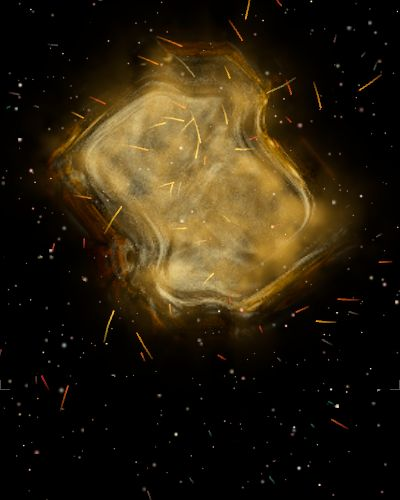
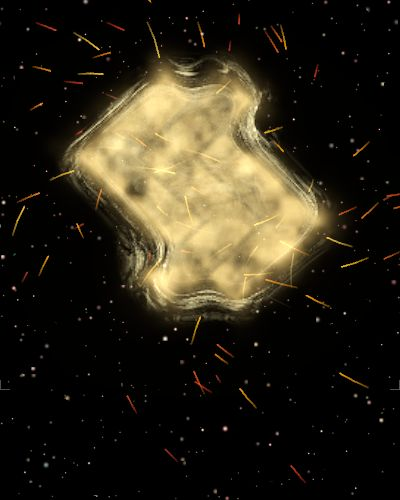
Big Bang: start a touch later; an accretion disk and lensing round the mark
The loop now starts 55% into the collapse (was 45%).

After ignition, the leftover gas settles into a thin, hot disk that hugs the
mark's outline. It orbits faster the closer in it is, so its noise shears into
streaks. Light passing the mark bends toward it, so stars and gas smear into
arcs, with a dark gap at the edge. Both build up through ignition, are blown off
by the replay blast, and are back to zero by the loop point, so the seam stays
clean. New sliders: Accretion disk, Disk spin and Lensing (spacetime warp).

Posters are regenerated for the later start.

diff --git a/labs/bigbang.html b/labs/bigbang.html
@@ -66,6 +66,9 @@ const lab = createLab({
     flash:    { type: 'range', label: 'Flash intensity', min: 0, max: 2, step: 0.05, value: 0.45 },
     pulse:    { type: 'range', label: 'Afterglow pulse', min: 0, max: 0.2, step: 0.005, value: 0.04 },
     pulseRate:{ type: 'range', label: 'Pulse rate', min: 0.2, max: 2, step: 0.05, value: 0.2, unit: '/s', when: P => P.pulse > 0 },
+    disk:     { type: 'range', label: 'Accretion disk', min: 0, max: 2, step: 0.05, value: 1 },
+    diskSpin: { type: 'range', label: 'Disk spin', min: 0, max: 4, step: 0.05, value: 1, unit: '×', when: P => P.disk > 0 },
+    lens:     { type: 'range', label: 'Lensing (spacetime warp)', min: 0, max: 2, step: 0.05, value: 1 },
     hReplay:  { type: 'heading', label: 'Replay' },
     loop:     { type: 'toggle', label: 'Auto replay', value: true },
     hold:     { type: 'range', label: 'Hold before replay', min: 2, max: 30, step: 1, value: 8, unit: ' s', when: P => P.loop },
@@ -88,7 +91,7 @@ const T0 = 1.2;                         // seconds of quiet cloud before gravity
 const LMAX = Math.log(40);              // the cloud ends 40× smaller than it starts
 const SETTLE = 3;                       // seconds after ignition before the hold timer counts
 const TB = 2.4;                         // seconds the replay blast takes to scatter back into cloud
-const LOOP_U = 0.45;                    // the loop starts here in the collapse, just before the mark coalesces
+const LOOP_U = 0.55;                    // the loop starts here in the collapse, just before the mark coalesces
 
 const { canvas } = lab.canvas({ context: 'none' });
 let renderer;
@@ -288,12 +291,12 @@ accScene.add(accQuad);
 const nebMat = new THREE.ShaderMaterial({
   uniforms: { ...shared, uDensity: { value: 1 }, uWarp: { value: 1 }, uOct: { value: 5 }, uSteps: { value: 40 }, uSeed: { value: 0 }, uBoost: { value: 1 },
     uL: { value: 0 }, uLs: { value: 0 }, uFlat: { value: 1 }, uEat: { value: 0 }, uSwirl: { value: 1 }, uSpin: { value: 0 }, uHeat: { value: 0 }, uHeatK: { value: 1 }, uCloudW: { value: 1 }, uClear: { value: 0 },
-    uAccW: { value: 0 }, uAccWid: { value: 1 }, uClump: { value: 1 }, uBox: { value: new THREE.Vector3(14, 14, 8) } },
+    uAccW: { value: 0 }, uAccWid: { value: 1 }, uClump: { value: 1 }, uDisk: { value: 0 }, uDiskT: { value: 0 }, uBox: { value: new THREE.Vector3(14, 14, 8) } },
   vertexShader: QUAD_VERT,
   fragmentShader: /* glsl */`
 ${GLSL_COMMON}
 uniform float uTime, uDensity, uWarp, uBoost, uSeed;
-uniform float uL, uLs, uFlat, uEat, uSwirl, uSpin, uHeat, uHeatK, uCloudW, uClear, uAccW, uAccWid, uClump;
+uniform float uL, uLs, uFlat, uEat, uSwirl, uSpin, uHeat, uHeatK, uCloudW, uClear, uAccW, uAccWid, uClump, uDisk, uDiskT;
 uniform vec3 uBox;
 uniform int uOct, uSteps;
 const float ZC = ${ZC.toFixed(5)}, HZ = ${HZ.toFixed(5)};
@@ -378,6 +381,21 @@ void main() {
       a *= max(0.0, mix(1.0, clamp(1.0 + cn * 3.5, 0.15, 2.2), uClump));   // past 1 the clumps exaggerate; never below empty
       m += vec4(pal(0.42 - 0.4 * uHeat) * a * 1.5, a * 0.25);
     }
+    // the accretion disk: after ignition the leftover gas settles into a thin, hot band hugging the mark's
+    // outline, orbiting faster the closer in it is (Kepler), so the noise shears into long streaks
+    if (uDisk > 0.001 && de < 2.4) {
+      float thick = 0.1 + 0.2 * de;
+      float vz = exp(-zo * zo / (thick * thick));
+      float prof = smoothstep(0.02, 0.14, de) * exp(-de * 1.9) * (1.0 - smoothstep(1.6, 2.4, de));
+      float a = atan(p.y, p.x) - uDiskT * 1.4 / pow(0.35 + de, 1.5);
+      vec2 ring = vec2(cos(a), sin(a));
+      float n1 = texture(uNoise, vec3(ring * 0.45, de * 0.4 + 0.31)).r;
+      float n2 = texture(uNoise, vec3(ring * 1.1 + 0.5, de * 1.2 + 0.13)).g;
+      float band = smoothstep(0.5, 0.85, n1 * 0.7 + n2 * 0.45);
+      float e = uDisk * prof * vz * (0.08 + 1.5 * band);
+      vec3 dc = pal(mix(0.02, 0.32, smoothstep(0.0, 1.6, de))) * (1.0 + 2.0 * exp(-de * 5.0));
+      m += vec4(dc * e * 1.6, e * 0.3);
+    }
     acc += T * m.rgb * uDensity * uBoost * dt;
     T *= exp(-m.a * uDensity * dt);
     t += dt;
@@ -396,13 +414,14 @@ const nebCam = new THREE.OrthographicCamera(-1, 1, 1, -1, 0, 1);
 // (idea after shadertoy.com/view/wfscRX; no code copied).
 const compMat = new THREE.ShaderMaterial({
   uniforms: { ...shared, uNeb: { value: hist[0].texture }, uRs: { value: 0 }, uShock: { value: 0 }, uHalo: { value: 0 },
-    uStars: { value: 0.35 }, uDpr: { value: 1 }, uBg: { value: new THREE.Color() } },
+    uStars: { value: 0.35 }, uDpr: { value: 1 }, uBg: { value: new THREE.Color() }, uLens: { value: 0 }, uVP: { value: new THREE.Matrix4() } },
   vertexShader: QUAD_VERT,
   depthTest: false, depthWrite: false,
   fragmentShader: /* glsl */`
 ${GLSL_COMMON}
 uniform sampler2D uNeb;
-uniform float uTime, uRs, uShock, uHalo, uStars, uDpr;
+uniform float uTime, uRs, uShock, uHalo, uStars, uDpr, uLens;
+uniform mat4 uVP;
 uniform vec3 uBg;
 float hash13(vec3 p) { p = fract(p * 0.1031); p += dot(p, p.zyx + 31.32); return fract((p.x + p.y) * p.z); }
 // stars live on the sky (by direction) so they work from every orbit angle
@@ -429,14 +448,25 @@ void main() {
   float th = -ro.z / rd.z;
   vec2 h = ro.xy + rd.xy * max(th, 0.0);
   float sd = th > 0.0 ? sdf(h) : 1e4;
-  vec4 neb = texture2D(uNeb, vUv);
+  // gravitational lensing: light passing the mark bends toward it, so each pixel shows what lies a little
+  // closer in, by more the nearer it passes. Stars and the disk smear into arcs around the outline.
+  vec2 uv = vUv; vec3 srd = rd;
+  if (uLens > 0.001 && th > 0.0) {
+    vec4 f = field(h);
+    float b = max(f.g, 0.0);
+    vec2 src = h - normalize(f.ba + 1e-5) * uLens * 0.32 / (0.3 + b) * smoothstep(0.0, 0.08, b);
+    vec4 cp = uVP * vec4(src, 0.0, 1.0);
+    uv = cp.xy / cp.w * 0.5 + 0.5;
+    srd = normalize(vec3(src, 0.0) - ro);
+  }
+  vec4 neb = texture2D(uNeb, uv);
   // light unsharp mask on the upscaled cloud target
   vec2 tx = 1.0 / vec2(textureSize(uNeb, 0));
-  vec4 blur = 0.25 * (texture2D(uNeb, vUv + vec2(tx.x, 0.0)) + texture2D(uNeb, vUv - vec2(tx.x, 0.0)) + texture2D(uNeb, vUv + vec2(0.0, tx.y)) + texture2D(uNeb, vUv - vec2(0.0, tx.y)));
+  vec4 blur = 0.25 * (texture2D(uNeb, uv + vec2(tx.x, 0.0)) + texture2D(uNeb, uv - vec2(tx.x, 0.0)) + texture2D(uNeb, uv + vec2(0.0, tx.y)) + texture2D(uNeb, uv - vec2(0.0, tx.y)));
   neb = max(vec4(0.0), neb + (neb - blur) * 0.35);
   float hd = max(sd, 0.0);
   vec3 halo = pal(0.2) * uHalo * (0.05 / (0.05 + hd)) * exp(-hd * 0.9);
-  vec3 c = stars(rd) * (1.0 - neb.a * 0.92) + neb.rgb + halo;
+  vec3 c = stars(srd) * (1.0 - neb.a * 0.92) + neb.rgb + halo;
   c = c * (1.0 + c / 4.0) / (1.0 + c);
   // grade: deeper blacks, more saturation, like an OLED demo reel
   c = max(vec3(0.0), mix(vec3(dot(c, vec3(0.2126, 0.7152, 0.0722))), c, 1.3));
@@ -635,7 +665,7 @@ lab.on('change', key => { if (key === 'quality') sizeNebula(); dirty = 40; });
 // snapshot of wherever the sequence was back to the cloud as it is at loopS(), just before the mark coalesces,
 // then hands over to 'seq' there. The lab opens at loopS() too, so it loops collapse, hold, blast.
 // Everything is a pure function of S (or B and the snapshot), so seeking and replaying never pop.
-let mode = 'seq', S = 0, B = 0, enterS = -1, churn = 0, beatT = 0, yaw = 0, from = null;
+let mode = 'seq', S = 0, B = 0, enterS = -1, churn = 0, beatT = 0, diskT = 0, yaw = 0, from = null;
 const clamp01 = x => Math.max(0, Math.min(1, x));
 function smooth(e0, e1, x) { const t = clamp01((x - e0) / (e1 - e0)); return t * t * (3 - 2 * t); }
 const mix = (a, b, f) => a + (b - a) * f;
@@ -668,6 +698,8 @@ function seqState(S) {
     boost: 1 + 1.4 * smooth(0.75, 1, u) * (tau > 0 ? Math.exp(-post * 5) : 1),
     flash: tau > -0.12 ? (tau < 0 ? smooth(-0.12, 0, tau) : Math.exp(-tau * 7) * (1 - smooth(0.15, 0.5, tau))) : 0,
     halo: smooth(0, 0.6, post) * (0.35 + 0.65 * Math.exp(-post / 2.5)),
+    disk: smooth(-0.3, 1.6, tau),                      // what's left over settles into a disk round the mark
+    lens: smooth(-0.1, 0.8, tau),
     b: 0
   };
 }
@@ -691,6 +723,7 @@ function blastState(b) {
     front: mix(F.front, Z.front, kc), boost: mix(F.boost, Z.boost, k) + 1.2 * Math.exp(-b * 4) * smooth(0, 0.04, b),
     flash: 0.5 * Math.max(F.mesh, 0.3) * smooth(0, 0.04, b) * Math.exp(-b * 9) * (1 - smooth(0.15, 0.45, b)),
     halo: F.halo * Math.exp(-b * 5),
+    disk: F.disk * (1 - smooth(0, 0.5 * TB, b)), lens: F.lens * (1 - smooth(0, 0.3 * TB, b)),
     az: F.az * (1 - kc), el: F.el,
     b
   };
@@ -739,6 +772,7 @@ function update(dt) {
   if (!calm) {
     churn += dt * P.time * P.flow / 3;
     beatT += dt * P.time * P.pulseRate;
+    diskT += dt * P.time * P.diskSpin;
     if (!press) { const r = Math.exp(-dt * 1.6); dragYaw *= r; dragPitch *= r; }
     if (mode === 'seq') {
       S += dt * P.time;
@@ -788,6 +822,8 @@ function update(dt) {
   nu.uAccWid.value = st.wid;
   nu.uClump.value = P.wobble;
   nu.uBoost.value = st.boost;
+  nu.uDisk.value = st.disk * P.disk;
+  nu.uDiskT.value = diskT;
   // the gas can only be within (start radius / contraction) of the mark
   const C = Math.exp(st.L);
   nu.uBox.value.set(3.2 + 13 / C, 3.2 + 13 / C, HZ + 8 / C / st.flat + 0.3);
@@ -795,6 +831,8 @@ function update(dt) {
   const beat = heartbeat(beatT) * st.halo;
   const cu = compMat.uniforms;
   cu.uStars.value = P.stars;
+  cu.uLens.value = st.lens * P.lens;
+  cu.uVP.value.multiplyMatrices(camera.projectionMatrix, camera.matrixWorldInverse);
   cu.uHalo.value = st.halo * 0.6 * (1 + P.pulse * 8 * beat);
   cu.uRs.value = mode === 'blast' ? P.force * 4 * B ** 0.8 : 0;
   cu.uShock.value = mode === 'blast' ? smooth(0, 0.06, B) * Math.exp(-B * 1.1) * from.mesh : 0;

diff --git a/workspace/labs/bigbang.html b/workspace/labs/bigbang.html
@@ -63,6 +63,9 @@ const lab = createLab({
     flash:    { type: 'range', label: 'Flash intensity', min: 0, max: 2, step: 0.05, value: 0.45 },
     pulse:    { type: 'range', label: 'Afterglow pulse', min: 0, max: 0.2, step: 0.005, value: 0.04 },
     pulseRate:{ type: 'range', label: 'Pulse rate', min: 0.2, max: 2, step: 0.05, value: 0.2, unit: '/s', when: P => P.pulse > 0 },
+    disk:     { type: 'range', label: 'Accretion disk', min: 0, max: 2, step: 0.05, value: 1 },
+    diskSpin: { type: 'range', label: 'Disk spin', min: 0, max: 4, step: 0.05, value: 1, unit: '×', when: P => P.disk > 0 },
+    lens:     { type: 'range', label: 'Lensing (spacetime warp)', min: 0, max: 2, step: 0.05, value: 1 },
     hReplay:  { type: 'heading', label: 'Replay' },
     loop:     { type: 'toggle', label: 'Auto replay', value: true },
     hold:     { type: 'range', label: 'Hold before replay', min: 2, max: 30, step: 1, value: 8, unit: ' s', when: P => P.loop },
@@ -85,7 +88,7 @@ const T0 = 1.2;                         // seconds of quiet cloud before gravity
 const LMAX = Math.log(40);              // the cloud ends 40× smaller than it starts
 const SETTLE = 3;                       // seconds after ignition before the hold timer counts
 const TB = 2.4;                         // seconds the replay blast takes to scatter back into cloud
-const LOOP_U = 0.45;                    // the loop starts here in the collapse, just before the mark coalesces
+const LOOP_U = 0.55;                    // the loop starts here in the collapse, just before the mark coalesces
 
 const { canvas } = lab.canvas({ context: 'none' });
 let renderer;
@@ -285,12 +288,12 @@ accScene.add(accQuad);
 const nebMat = new THREE.ShaderMaterial({
   uniforms: { ...shared, uDensity: { value: 1 }, uWarp: { value: 1 }, uOct: { value: 5 }, uSteps: { value: 40 }, uSeed: { value: 0 }, uBoost: { value: 1 },
     uL: { value: 0 }, uLs: { value: 0 }, uFlat: { value: 1 }, uEat: { value: 0 }, uSwirl: { value: 1 }, uSpin: { value: 0 }, uHeat: { value: 0 }, uHeatK: { value: 1 }, uCloudW: { value: 1 }, uClear: { value: 0 },
-    uAccW: { value: 0 }, uAccWid: { value: 1 }, uClump: { value: 1 }, uBox: { value: new THREE.Vector3(14, 14, 8) } },
+    uAccW: { value: 0 }, uAccWid: { value: 1 }, uClump: { value: 1 }, uDisk: { value: 0 }, uDiskT: { value: 0 }, uBox: { value: new THREE.Vector3(14, 14, 8) } },
   vertexShader: QUAD_VERT,
   fragmentShader: /* glsl */`
 ${GLSL_COMMON}
 uniform float uTime, uDensity, uWarp, uBoost, uSeed;
-uniform float uL, uLs, uFlat, uEat, uSwirl, uSpin, uHeat, uHeatK, uCloudW, uClear, uAccW, uAccWid, uClump;
+uniform float uL, uLs, uFlat, uEat, uSwirl, uSpin, uHeat, uHeatK, uCloudW, uClear, uAccW, uAccWid, uClump, uDisk, uDiskT;
 uniform vec3 uBox;
 uniform int uOct, uSteps;
 const float ZC = ${ZC.toFixed(5)}, HZ = ${HZ.toFixed(5)};
@@ -375,6 +378,21 @@ void main() {
       a *= max(0.0, mix(1.0, clamp(1.0 + cn * 3.5, 0.15, 2.2), uClump));   // past 1 the clumps exaggerate; never below empty
       m += vec4(pal(0.42 - 0.4 * uHeat) * a * 1.5, a * 0.25);
     }
+    // the accretion disk: after ignition the leftover gas settles into a thin, hot band hugging the mark's
+    // outline, orbiting faster the closer in it is (Kepler), so the noise shears into long streaks
+    if (uDisk > 0.001 && de < 2.4) {
+      float thick = 0.1 + 0.2 * de;
+      float vz = exp(-zo * zo / (thick * thick));
+      float prof = smoothstep(0.02, 0.14, de) * exp(-de * 1.9) * (1.0 - smoothstep(1.6, 2.4, de));
+      float a = atan(p.y, p.x) - uDiskT * 1.4 / pow(0.35 + de, 1.5);
+      vec2 ring = vec2(cos(a), sin(a));
+      float n1 = texture(uNoise, vec3(ring * 0.45, de * 0.4 + 0.31)).r;
+      float n2 = texture(uNoise, vec3(ring * 1.1 + 0.5, de * 1.2 + 0.13)).g;
+      float band = smoothstep(0.5, 0.85, n1 * 0.7 + n2 * 0.45);
+      float e = uDisk * prof * vz * (0.08 + 1.5 * band);
+      vec3 dc = pal(mix(0.02, 0.32, smoothstep(0.0, 1.6, de))) * (1.0 + 2.0 * exp(-de * 5.0));
+      m += vec4(dc * e * 1.6, e * 0.3);
+    }
     acc += T * m.rgb * uDensity * uBoost * dt;
     T *= exp(-m.a * uDensity * dt);
     t += dt;
@@ -393,13 +411,14 @@ const nebCam = new THREE.OrthographicCamera(-1, 1, 1, -1, 0, 1);
 // (idea after shadertoy.com/view/wfscRX; no code copied).
 const compMat = new THREE.ShaderMaterial({
   uniforms: { ...shared, uNeb: { value: hist[0].texture }, uRs: { value: 0 }, uShock: { value: 0 }, uHalo: { value: 0 },
-    uStars: { value: 0.35 }, uDpr: { value: 1 }, uBg: { value: new THREE.Color() } },
+    uStars: { value: 0.35 }, uDpr: { value: 1 }, uBg: { value: new THREE.Color() }, uLens: { value: 0 }, uVP: { value: new THREE.Matrix4() } },
   vertexShader: QUAD_VERT,
   depthTest: false, depthWrite: false,
   fragmentShader: /* glsl */`
 ${GLSL_COMMON}
 uniform sampler2D uNeb;
-uniform float uTime, uRs, uShock, uHalo, uStars, uDpr;
+uniform float uTime, uRs, uShock, uHalo, uStars, uDpr, uLens;
+uniform mat4 uVP;
 uniform vec3 uBg;
 float hash13(vec3 p) { p = fract(p * 0.1031); p += dot(p, p.zyx + 31.32); return fract((p.x + p.y) * p.z); }
 // stars live on the sky (by direction) so they work from every orbit angle
@@ -426,14 +445,25 @@ void main() {
   float th = -ro.z / rd.z;
   vec2 h = ro.xy + rd.xy * max(th, 0.0);
   float sd = th > 0.0 ? sdf(h) : 1e4;
-  vec4 neb = texture2D(uNeb, vUv);
+  // gravitational lensing: light passing the mark bends toward it, so each pixel shows what lies a little
+  // closer in, by more the nearer it passes. Stars and the disk smear into arcs around the outline.
+  vec2 uv = vUv; vec3 srd = rd;
+  if (uLens > 0.001 && th > 0.0) {
+    vec4 f = field(h);
+    float b = max(f.g, 0.0);
+    vec2 src = h - normalize(f.ba + 1e-5) * uLens * 0.32 / (0.3 + b) * smoothstep(0.0, 0.08, b);
+    vec4 cp = uVP * vec4(src, 0.0, 1.0);
+    uv = cp.xy / cp.w * 0.5 + 0.5;
+    srd = normalize(vec3(src, 0.0) - ro);
+  }
+  vec4 neb = texture2D(uNeb, uv);
   // light unsharp mask on the upscaled cloud target
   vec2 tx = 1.0 / vec2(textureSize(uNeb, 0));
-  vec4 blur = 0.25 * (texture2D(uNeb, vUv + vec2(tx.x, 0.0)) + texture2D(uNeb, vUv - vec2(tx.x, 0.0)) + texture2D(uNeb, vUv + vec2(0.0, tx.y)) + texture2D(uNeb, vUv - vec2(0.0, tx.y)));
+  vec4 blur = 0.25 * (texture2D(uNeb, uv + vec2(tx.x, 0.0)) + texture2D(uNeb, uv - vec2(tx.x, 0.0)) + texture2D(uNeb, uv + vec2(0.0, tx.y)) + texture2D(uNeb, uv - vec2(0.0, tx.y)));
   neb = max(vec4(0.0), neb + (neb - blur) * 0.35);
   float hd = max(sd, 0.0);
   vec3 halo = pal(0.2) * uHalo * (0.05 / (0.05 + hd)) * exp(-hd * 0.9);
-  vec3 c = stars(rd) * (1.0 - neb.a * 0.92) + neb.rgb + halo;
+  vec3 c = stars(srd) * (1.0 - neb.a * 0.92) + neb.rgb + halo;
   c = c * (1.0 + c / 4.0) / (1.0 + c);
   // grade: deeper blacks, more saturation, like an OLED demo reel
   c = max(vec3(0.0), mix(vec3(dot(c, vec3(0.2126, 0.7152, 0.0722))), c, 1.3));
@@ -632,7 +662,7 @@ lab.on('change', key => { if (key === 'quality') sizeNebula(); dirty = 40; });
 // snapshot of wherever the sequence was back to the cloud as it is at loopS(), just before the mark coalesces,
 // then hands over to 'seq' there. The lab opens at loopS() too, so it loops collapse, hold, blast.
 // Everything is a pure function of S (or B and the snapshot), so seeking and replaying never pop.
-let mode = 'seq', S = 0, B = 0, enterS = -1, churn = 0, beatT = 0, yaw = 0, from = null;
+let mode = 'seq', S = 0, B = 0, enterS = -1, churn = 0, beatT = 0, diskT = 0, yaw = 0, from = null;
 const clamp01 = x => Math.max(0, Math.min(1, x));
 function smooth(e0, e1, x) { const t = clamp01((x - e0) / (e1 - e0)); return t * t * (3 - 2 * t); }
 const mix = (a, b, f) => a + (b - a) * f;
@@ -665,6 +695,8 @@ function seqState(S) {
     boost: 1 + 1.4 * smooth(0.75, 1, u) * (tau > 0 ? Math.exp(-post * 5) : 1),
     flash: tau > -0.12 ? (tau < 0 ? smooth(-0.12, 0, tau) : Math.exp(-tau * 7) * (1 - smooth(0.15, 0.5, tau))) : 0,
     halo: smooth(0, 0.6, post) * (0.35 + 0.65 * Math.exp(-post / 2.5)),
+    disk: smooth(-0.3, 1.6, tau),                      // what's left over settles into a disk round the mark
+    lens: smooth(-0.1, 0.8, tau),
     b: 0
   };
 }
@@ -688,6 +720,7 @@ function blastState(b) {
     front: mix(F.front, Z.front, kc), boost: mix(F.boost, Z.boost, k) + 1.2 * Math.exp(-b * 4) * smooth(0, 0.04, b),
     flash: 0.5 * Math.max(F.mesh, 0.3) * smooth(0, 0.04, b) * Math.exp(-b * 9) * (1 - smooth(0.15, 0.45, b)),
     halo: F.halo * Math.exp(-b * 5),
+    disk: F.disk * (1 - smooth(0, 0.5 * TB, b)), lens: F.lens * (1 - smooth(0, 0.3 * TB, b)),
     az: F.az * (1 - kc), el: F.el,
     b
   };
@@ -736,6 +769,7 @@ function update(dt) {
   if (!calm) {
     churn += dt * P.time * P.flow / 3;
     beatT += dt * P.time * P.pulseRate;
+    diskT += dt * P.time * P.diskSpin;
     if (!press) { const r = Math.exp(-dt * 1.6); dragYaw *= r; dragPitch *= r; }
     if (mode === 'seq') {
       S += dt * P.time;
@@ -785,6 +819,8 @@ function update(dt) {
   nu.uAccWid.value = st.wid;
   nu.uClump.value = P.wobble;
   nu.uBoost.value = st.boost;
+  nu.uDisk.value = st.disk * P.disk;
+  nu.uDiskT.value = diskT;
   // the gas can only be within (start radius / contraction) of the mark
   const C = Math.exp(st.L);
   nu.uBox.value.set(3.2 + 13 / C, 3.2 + 13 / C, HZ + 8 / C / st.flat + 0.3);
@@ -792,6 +828,8 @@ function update(dt) {
   const beat = heartbeat(beatT) * st.halo;
   const cu = compMat.uniforms;
   cu.uStars.value = P.stars;
+  cu.uLens.value = st.lens * P.lens;
+  cu.uVP.value.multiplyMatrices(camera.projectionMatrix, camera.matrixWorldInverse);
   cu.uHalo.value = st.halo * 0.6 * (1 + P.pulse * 8 * beat);
   cu.uRs.value = mode === 'blast' ? P.force * 4 * B ** 0.8 : 0;
   cu.uShock.value = mode === 'blast' ? smooth(0, 0.06, B) * Math.exp(-B * 1.1) * from.mesh : 0;

diff --git a/workspace/labs/notes/behind-the-scenes.md b/workspace/labs/notes/behind-the-scenes.md
@@ -332,3 +332,4 @@ Scott walked the saved versions in `notes/versions/goop/`.
 - **The call:** "start right before the symbol coalesces, and loop from there." The lab now opens partway into the collapse, with the cloud already falling in. It loops from there: coalesce, hold, blast, then back to the same point. The quiet cloud at the very start no longer plays.
 - **Delegated:** "or you can just go for it." Claude picked 45% of the way through the collapse, about 2.4 s before ignition at the default speed. The replay blast now settles into that cloud instead of the original one.
 - **Found on the way:** the earlier start had hidden a square seam in the mid-collapse cloud on tall screens. Opening on that moment exposed it, so the pull field now extends cleanly past its baked square.
+- **Round 2:** "move the progress forward just a touch more" moved the start from 45% to 55% into the collapse. "ham up the gravity spacetime warp on the outside of the mark to look more like an accretion disk" added two things. One is a hot, streaky disk of gas that hugs the mark's outline and orbits faster closer in. The other is gravitational lensing that bends stars and gas toward the mark and leaves a dark gap around it. The disk forms at ignition and is blown away by the blast. Each has its own slider.
